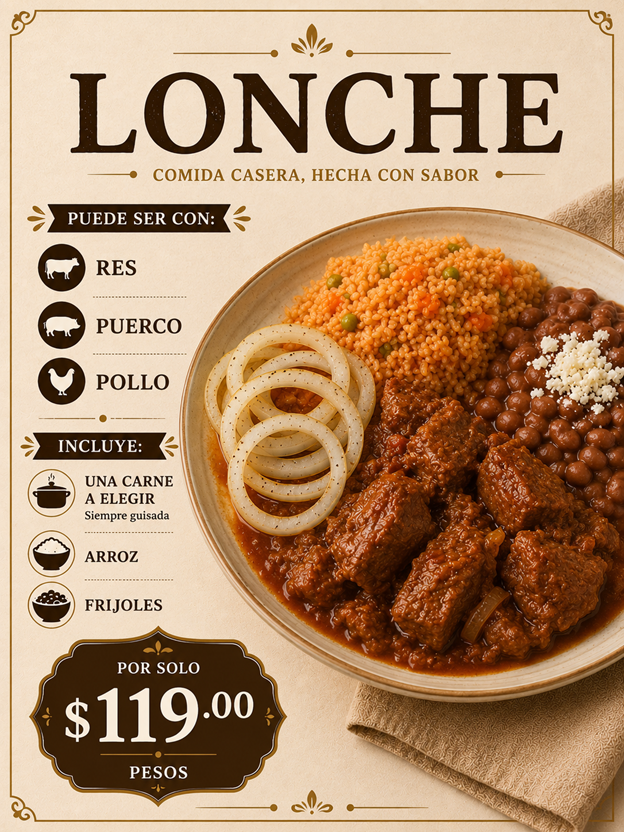
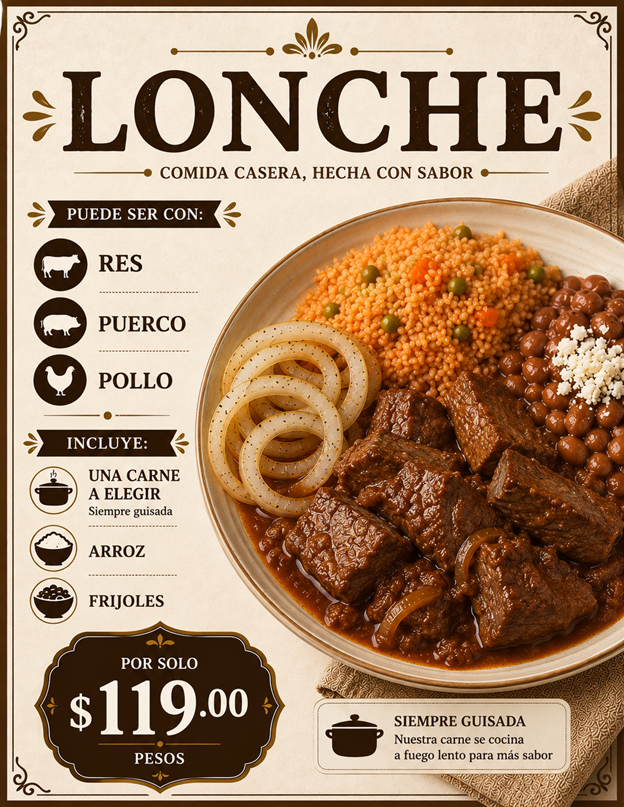
Enhance carousel functionality to display single images and adjust layout for 'Bowls' items

diff --git a/index.html b/index.html
@@ -81,7 +81,22 @@
         .fullscreen-btn.visible {
             opacity: 1;
         }
+
+        /* Cuando una sola imagen debe ocupar todo el ancho y alto */
+        .carousel-image.single {
+            max-width: 100% !important;
+            width: 100% !important;
+            max-height: 100% !important;
+            height: 100% !important;
+            object-fit: contain !important;
+            z-index: 5;
+        }
+
+        .carousel-image.hidden {
+            display: none !important;
+        }
     </style>
+    </head>
     </head>
     <body>
         <div class="carousel-container">
@@ -175,6 +190,36 @@
             }
         });
 
+        // Ajusta la presentación para mostrar solo Bowls cuando aparezca
+        function updateLayoutForCurrentImages(imgA, imgB) {
+            const isA = imgA && imgA.toLowerCase().includes('bowls.png');
+            const isB = imgB && imgB.toLowerCase().includes('bowls.png');
+
+            // Reset styles
+            image1.classList.remove('single', 'hidden');
+            image2.classList.remove('single', 'hidden');
+            image1.style.display = 'block';
+            image2.style.display = 'block';
+            image1.style.maxWidth = '';
+            image2.style.maxWidth = '';
+
+            if (isA && !isB) {
+                // Mostrar solo image1
+                image1.classList.add('single');
+                image2.classList.add('hidden');
+            } else if (isB && !isA) {
+                // Mostrar solo image2
+                image2.classList.add('single');
+                image1.classList.add('hidden');
+            } else {
+                // Ninguna es Bowls o ambas lo son: mostrar ambas normalmente
+                image1.classList.remove('single', 'hidden');
+                image2.classList.remove('single', 'hidden');
+                image1.style.display = 'block';
+                image2.style.display = 'block';
+            }
+        }
+
         // Función para cambiar las imágenes
         function changeImages() {
             // Agregar efecto fade out
@@ -182,9 +227,15 @@
             image2.classList.add('fade-out');
 
             setTimeout(() => {
+                const imgA = images[currentIndex % images.length];
+                const imgB = images[(currentIndex + 1) % images.length];
+
                 // Cambiar las imágenes
-                image1.src = images[currentIndex % images.length];
-                image2.src = images[(currentIndex + 1) % images.length];
+                image1.src = imgA;
+                image2.src = imgB;
+
+                // Ajustar layout si alguno es Bowls
+                updateLayoutForCurrentImages(imgA, imgB);
 
                 // Remover fade out y agregar fade in
                 image1.classList.remove('fade-out');
@@ -197,17 +248,11 @@
             }, 250);
         }
 
+        // Ajuste inicial según las imágenes ya presentes
+        updateLayoutForCurrentImages(images[currentIndex % images.length], images[(currentIndex + 1) % images.length]);
+
         // Iniciar el carousel
         setInterval(changeImages, imageChangeInterval);
-
-        // Cambiar el texto del botón cuando entra/sale de pantalla completa
-        document.addEventListener('fullscreenchange', () => {
-            if (document.fullscreenElement) {
-                fullscreenBtn.textContent = '⊞ Salir Pantalla Completa';
-            } else {
-                fullscreenBtn.textContent = '🖥️ Pantalla Completa';
-            }
-        });
     </script>
     </body>
 </html>